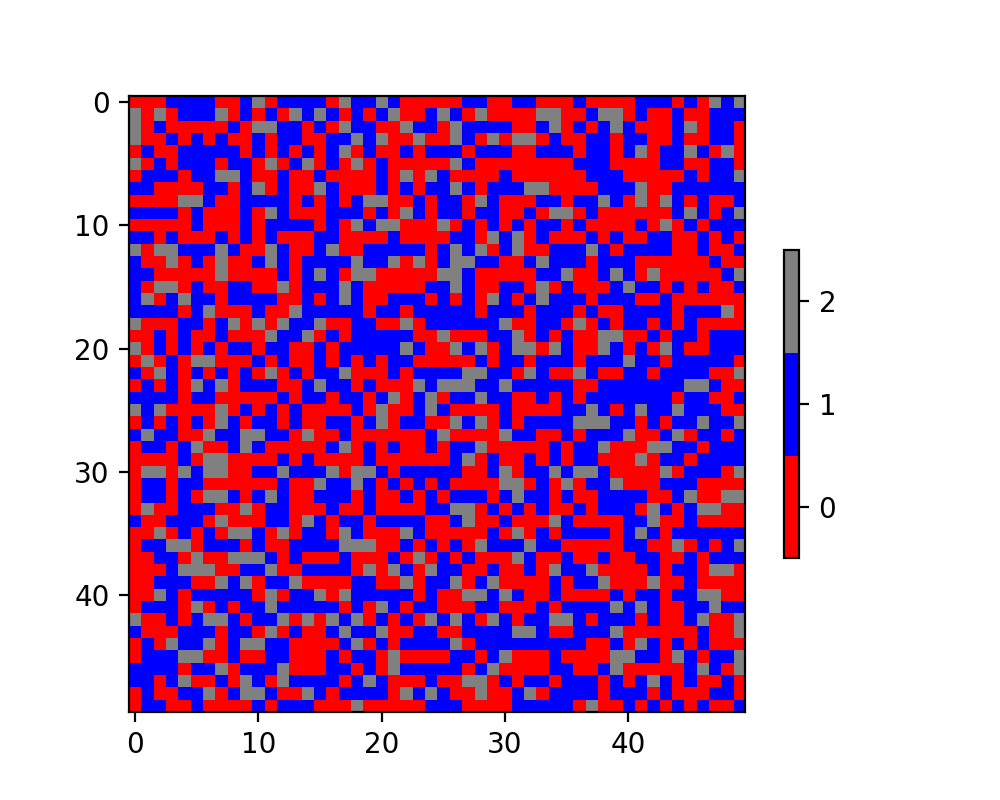
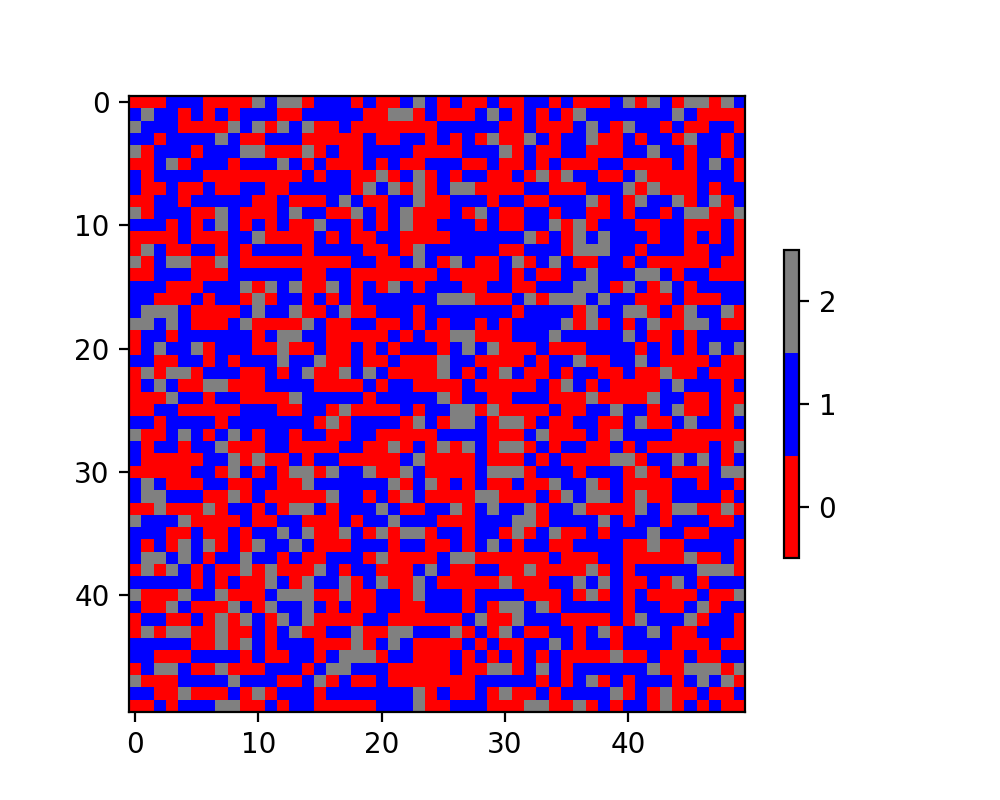
added heatmap

Changed region(s): [[0.124, 0.0938, 0.744, 0.9062]]

diff --git a/util.py b/util.py
@@ -9,7 +9,7 @@ def plot_map(pop, nx, st, saving=False):
     '''
     Plotting the map.
     Args:
-    pop (np array): the population to plot
+    pop (1D array): the population of group ID to plot
     nx (int): the width of the square grid world
     st (int): the run iteration
     saving (bool): save the figure or not
@@ -34,4 +34,45 @@ def plot_map(pop, nx, st, saving=False):
         plt.savefig(filepath, dpi=200, facecolor='white')
     
     return img
-    
+
+def heatmap_scaler(pop):
+    '''
+    Helper function to put the ID strength of different group to one scale: -1 to 5.
+    Args:
+    pop(2D array): the population to plot, 0-Group ID, 1-Type, 2-Current ID strength, 3-Future ID strength
+    Returns:
+    scaled_pop(2D array): 0-Group, 2-Current ID strength, 2-Future ID strength, ID strength scale: -1 to 5
+    '''
+    scaled_pop = np.copy(pop[:,[0, 2, 3]])
+    scaled_pop[:, 1] = scaled_pop[:, 0] * 4 + scaled_pop[:, 1]
+    scaled_pop[:, 2] = scaled_pop[:, 0] * 4 + scaled_pop[:, 2]
+    scaled_pop[scaled_pop[:, 0]==2] = 2
+
+    return scaled_pop
+
+def plot_heatmap(pop, nx, st, saving=False):
+    '''
+    Plotting the heatmap of ID strength.
+    Args:
+    pop (2D array): the population to plot, 0-Group ID, 1-Type, 2-Current ID strength, 3-Future ID strength
+    nx (int): the width of the square grid world
+    st (int): the run iteration
+    saving (bool): save the figure or not
+    Returns:
+    img (AxisImage): the map image object
+    '''
+    # put the ID strength of different group to one scale: -1 to 5
+    pop_strength = heatmap_scaler(pop)
+    # reshape the sclaed current ID strength
+    current_ID = pop_strength[:, 1].reshape((nx, nx))
+    # initiate the plot and add the color bar legend
+    fig = plt.figure(figsize=(5, 4))
+    ax = fig.gca()
+    img = ax.imshow(current_ID, cmap='RdBu')
+
+    if saving:
+        filename = 'heatmap_time_{0}.png'.format(st)
+        filepath = os.path.join(OUTPUT, filename)
+        plt.savefig(filepath, dpi=200, facecolor='white')
+
+    return img

diff --git a/segregation.py b/segregation.py
@@ -30,7 +30,7 @@ class seg_sim(object):
         # The total population is the size of the grid world
         self.npop = nx * nx
         # 2D array store some properties the agents
-        # 0-Group ID, 1-Type, 2-Cuurent ID strength, 3-Future ID strength
+        # 0-Group ID, 1-Type, 2-Current ID strength, 3-Future ID strength
         self.population = np.zeros((nx*nx, 4))
 
         # 2D array store the segregation data
@@ -81,7 +81,8 @@ class seg_sim(object):
         W = self.world
         nx = self.nx
 
-        img = plot_map(pop[:, 0], nx, 0, saving=save_figures)
+        _ = plot_map(pop[:, 0], nx, 0, saving=save_figures)
+        img = plot_heatmap(pop, nx, 0, saving=save_figures)
 
         for t in range(self.n_move):
             # Randomly pick an agent
@@ -104,11 +105,13 @@ class seg_sim(object):
                     pop[loc, 0] = 2
                     
                     if show_progress:
-                        img.set_data(pop[:, 0].reshape(nx, nx))
+                        scaled_pop_strength = heatmap_scaler(pop)
+                        img.set_data(scaled_pop_strength[:, 1].reshape(nx, nx))
                         plt.draw(), plt.pause(0.05)
     
         self.c_move += 1
         _ = plot_map(pop[:, 0], nx, 'after_{0}_moves_{1}'.format(self.n_move, self.c_move), saving=save_figures)
+        _ = plot_heatmap(pop, nx, 'after_{0}_moves_{1}'.format(self.n_move, self.c_move), saving=save_figures)
 
     def interact_stage(self):
         ''''''
